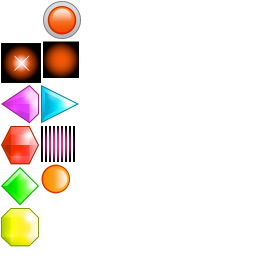
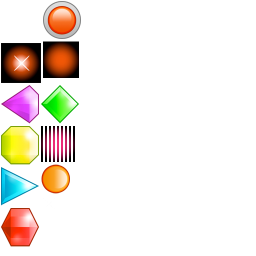
Now using batch nodes for faster drawing (mobile only)

Changed region(s): [[0.0, 0.4688, 0.1562, 0.9688], [0.1562, 0.3125, 0.3125, 0.5]]

diff --git a/Published-HTML5/GameScene.js b/Published-HTML5/GameScene.js
@@ -620,7 +620,7 @@ function updateSparkle()
 
 	if (gemSprite.getChildren().length > 0) return;
 
-	sprite = cc.Sprite.create("gamescene/sparkle.png");
+	sprite = cc.Sprite.createWithSpriteFrameName("crystals/sparkle.png");
 	sprite.runAction(cc.RepeatForever.create(cc.RotateBy.create(3, 360)));
 
 	sprite.setOpacity(0);
@@ -727,10 +727,23 @@ GameScene.prototype.onDidLoadFromCCB = function()
     this.rootNode.schedule(this.rootNode.onUpdate);
 
     // TODO: Make into batch node
-    gGameLayer = cc.Node.create();
+    
+    if (cc.config.platform == "mobile")
+    {
+    	cc.log("On mobile");
+    	gParticleLayer = cc.ParticleBatchNode.create("particles/taken-gem.png", 250);
+    	gGameLayer = cc.SpriteBatchNode.create("crystals.pvr.gz");
+    }
+    else
+    {
+    	cc.log("On web");
+    	gParticleLayer = cc.Node.create();
+    	gGameLayer = cc.Node.create();
+    }
+
     gGameLayer.setContentSize(this.gameLayer.getContentSize());
     //gParticleLayer = cc.ParticleBatchNode.create("particles/taken-gem.png", 250);
-    gParticleLayer = cc.Node.create();
+    //gParticleLayer = cc.Node.create();
     gHintLayer = cc.Node.create();
     gShimmerLayer = cc.Node.create();
     gEffectsLayer = cc.Node.create();

diff --git a/Published-iOS/GameScene.js b/Published-iOS/GameScene.js
@@ -620,7 +620,7 @@ function updateSparkle()
 
 	if (gemSprite.getChildren().length > 0) return;
 
-	sprite = cc.Sprite.create("gamescene/sparkle.png");
+	sprite = cc.Sprite.createWithSpriteFrameName("crystals/sparkle.png");
 	sprite.runAction(cc.RepeatForever.create(cc.RotateBy.create(3, 360)));
 
 	sprite.setOpacity(0);
@@ -727,10 +727,23 @@ GameScene.prototype.onDidLoadFromCCB = function()
     this.rootNode.schedule(this.rootNode.onUpdate);
 
     // TODO: Make into batch node
-    gGameLayer = cc.Node.create();
+    
+    if (cc.config.platform == "mobile")
+    {
+    	cc.log("On mobile");
+    	gParticleLayer = cc.ParticleBatchNode.create("particles/taken-gem.png", 250);
+    	gGameLayer = cc.SpriteBatchNode.create("crystals.pvr.gz");
+    }
+    else
+    {
+    	cc.log("On web");
+    	gParticleLayer = cc.Node.create();
+    	gGameLayer = cc.Node.create();
+    }
+
     gGameLayer.setContentSize(this.gameLayer.getContentSize());
     //gParticleLayer = cc.ParticleBatchNode.create("particles/taken-gem.png", 250);
-    gParticleLayer = cc.Node.create();
+    //gParticleLayer = cc.Node.create();
     gHintLayer = cc.Node.create();
     gShimmerLayer = cc.Node.create();
     gEffectsLayer = cc.Node.create();

diff --git a/Resources/GameScene.js b/Resources/GameScene.js
@@ -620,7 +620,7 @@ function updateSparkle()
 
 	if (gemSprite.getChildren().length > 0) return;
 
-	sprite = cc.Sprite.create("gamescene/sparkle.png");
+	sprite = cc.Sprite.createWithSpriteFrameName("crystals/sparkle.png");
 	sprite.runAction(cc.RepeatForever.create(cc.RotateBy.create(3, 360)));
 
 	sprite.setOpacity(0);
@@ -727,10 +727,23 @@ GameScene.prototype.onDidLoadFromCCB = function()
     this.rootNode.schedule(this.rootNode.onUpdate);
 
     // TODO: Make into batch node
-    gGameLayer = cc.Node.create();
+    
+    if (cc.config.platform == "mobile")
+    {
+    	cc.log("On mobile");
+    	gParticleLayer = cc.ParticleBatchNode.create("particles/taken-gem.png", 250);
+    	gGameLayer = cc.SpriteBatchNode.create("crystals.pvr.gz");
+    }
+    else
+    {
+    	cc.log("On web");
+    	gParticleLayer = cc.Node.create();
+    	gGameLayer = cc.Node.create();
+    }
+
     gGameLayer.setContentSize(this.gameLayer.getContentSize());
     //gParticleLayer = cc.ParticleBatchNode.create("particles/taken-gem.png", 250);
-    gParticleLayer = cc.Node.create();
+    //gParticleLayer = cc.Node.create();
     gHintLayer = cc.Node.create();
     gShimmerLayer = cc.Node.create();
     gEffectsLayer = cc.Node.create();

diff --git a/Published-HTML5/resources-html5.js b/Published-HTML5/resources-html5.js
@@ -3,7 +3,6 @@ var ccb_resources = [
     {type:'plist', src:"particles/taken-vrow.plist"},
     {type:'image', src:"clickme.png"},
     {type:'image', src:"ccbResources/ccbParticleSmoke.png"},
-    {type:'image', src:"particles/taken-gem.png.png"},
     {type:'image', src:"gamescene/btn-pause-down.png"},
     {type:'plist', src:"ccbResources/ccbDefaultImages.plist"},
     {type:'image', src:"mainscene/btn-done-down.png"},
@@ -15,7 +14,6 @@ var ccb_resources = [
     {type:'plist', src:"particles/power-play.plist"},
     {type:'image', src:"gamescene/go.png"},
     {type:'image', src:"mainscene/btn-about.png"},
-    {type:'image', src:"gamescene/sparkle.png"},
     {type:'image', src:"mainscene/logo.png"},
     {type:'image', src:"gamescene/shimmer.png"},
     {type:'image', src:"mainscene/btn-play-down.png"},
